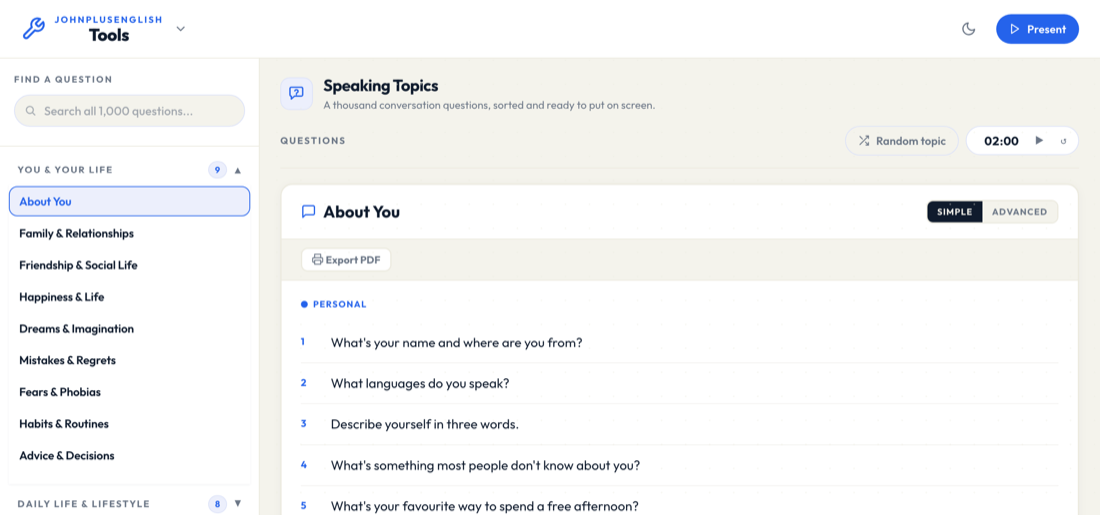
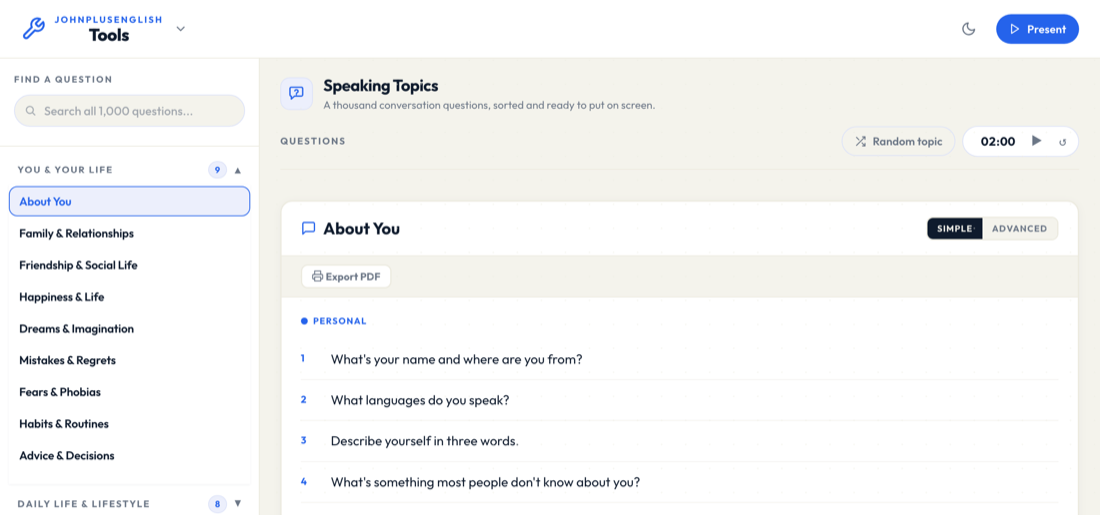
Speaking Topics timer: balance the buttons, restore the long bar
Two follow-ups on the new timer.

The play button kept a mouse-click focus ring, which made it look larger and the
reset ↺ small beside it. Dropped the ring for pointer focus (kept one for
keyboard), and sized both buttons the same at 28px with a 15px glyph, so play and
reset read as a pair.

The long progress bar was missing since the preset timer went. Added it back
under the toolbar, full width, the way the Debate Builder's works: it depletes as
the timer runs, turns amber under a minute and red past zero, and hides until the
timer is armed.

Verified: both buttons 28px, bar hidden before start, fills and depletes while
running, warns under a minute. No console errors, Debate Builder untouched.

diff --git a/tools/speaking-topics.html b/tools/speaking-topics.html
@@ -444,10 +444,26 @@ main{overflow:visible;min-width:0}
 .timer .tm:focus{background:var(--soft);color:var(--accent);border-radius:8px}
 .timer.warn .tm{color:#c2740c}
 .timer.over .tm{color:#c14343}
-.timer button{width:26px;height:26px;border-radius:999px;border:none;background:transparent;
+.timer button{width:28px;height:28px;border-radius:999px;border:none;background:transparent;
   color:var(--muted);display:inline-flex;align-items:center;justify-content:center;
-  font-size:12px;cursor:pointer}
+  font-size:15px;line-height:1;cursor:pointer;transition:background .12s,color .12s}
 .timer button:hover{background:var(--soft);color:var(--accent)}
+/* A mouse click left a big focus ring on play, so it dwarfed the reset. Drop it
+   for pointer focus; keep a ring for keyboard users. */
+.timer button:focus{outline:none}
+.timer button:focus-visible{outline:2px solid var(--accent);outline-offset:1px}
+
+/* The long progress bar under the toolbar, like the Debate Builder's: fills red
+   once time is up rather than vanishing to nothing. Hidden until the timer is
+   armed. */
+.jpt-tmbar{height:4px;border-radius:999px;background:var(--line);overflow:hidden;
+  margin:-4px 0 18px;opacity:0;transition:opacity .25s}
+.jpt-tmbar.on{opacity:1}
+.jpt-tmbar span{display:block;height:100%;width:100%;background:var(--accent);
+  border-radius:999px;transition:width .95s linear,background .3s}
+.jpt-tmbar.warn span{background:#c2740c}
+.jpt-tmbar.over span{background:#c14343;animation:jptTmPulse 1.1s ease-in-out infinite}
+@keyframes jptTmPulse{0%,100%{opacity:1}50%{opacity:.55}}
 
 /* Questions */
 .placeholder{background:var(--card);border:1px dashed var(--line);border-radius:16px;
@@ -571,6 +587,7 @@ main{overflow:visible;min-width:0}
 
         <div class="timer" id="jptTimerBox"><input class="tm" id="jptTmInput" type="text" inputmode="numeric" value="02:00" aria-label="Timer length" title="Type a length (2 or 2:30) and press Enter to start" onfocus="jptTmFocus()" onkeydown="jptTmKey(event)" onblur="jptTmApply()"><button onclick="jptTmToggle()" id="jptTmBtn" title="Start / pause">▶</button><button onclick="jptTmReset()" title="Reset">↺</button></div>
       </div>
+      <div class="jpt-tmbar" id="jptTmBar"><span id="jptTmBarFill"></span></div>
       <div class="placeholder" id="placeholder">Pick a topic from the list, or search for a question.</div>
       <div class="deck" id="deck"></div>
       <div class="deck-nav" id="deckNav" style="display:none">
@@ -1095,6 +1112,10 @@ buildTopicGrid();
     var txt=fmt(remaining);if(document.activeElement!==input)input.value=txt;
     var warn=remaining<=60&&remaining>0,over=remaining<=0;
     box().classList.toggle('warn',warn);box().classList.toggle('over',over);
+    var bar=document.getElementById('jptTmBar');
+    if(bar){bar.classList.toggle('on',running||remaining<total||over);
+      bar.classList.toggle('warn',warn);bar.classList.toggle('over',over);
+      document.getElementById('jptTmBarFill').style.width=(over?100:Math.max(0,Math.min(1,remaining/total))*100)+'%';}
     document.getElementById('jptTmBtn').textContent=running?'❙❙':'▶';}
   window.jptTmFocus=function(){if(running)window.jptTmToggle();var el=document.getElementById('jptTmInput');requestAnimationFrame(function(){el.select();});};
   window.jptTmApply=function(){var el=document.getElementById('jptTmInput');var v=parse(el.value);if(v===null){paint();return false;}total=v;remaining=v;paint();return true;};

diff --git a/build.py b/build.py
@@ -414,6 +414,10 @@ TIMER_JS = """<!-- jpt:timerjs -->
     var txt=fmt(remaining);if(document.activeElement!==input)input.value=txt;
     var warn=remaining<=60&&remaining>0,over=remaining<=0;
     box().classList.toggle('warn',warn);box().classList.toggle('over',over);
+    var bar=document.getElementById('jptTmBar');
+    if(bar){bar.classList.toggle('on',running||remaining<total||over);
+      bar.classList.toggle('warn',warn);bar.classList.toggle('over',over);
+      document.getElementById('jptTmBarFill').style.width=(over?100:Math.max(0,Math.min(1,remaining/total))*100)+'%';}
     document.getElementById('jptTmBtn').textContent=running?'\u2759\u2759':'\u25B6';}
   window.jptTmFocus=function(){if(running)window.jptTmToggle();var el=document.getElementById('jptTmInput');requestAnimationFrame(function(){el.select();});};
   window.jptTmApply=function(){var el=document.getElementById('jptTmInput');var v=parse(el.value);if(v===null){paint();return false;}total=v;remaining=v;paint();return true;};
@@ -617,10 +621,26 @@ main{overflow:visible;min-width:0}
 .timer .tm:focus{background:var(--soft);color:var(--accent);border-radius:8px}
 .timer.warn .tm{color:#c2740c}
 .timer.over .tm{color:#c14343}
-.timer button{width:26px;height:26px;border-radius:999px;border:none;background:transparent;
+.timer button{width:28px;height:28px;border-radius:999px;border:none;background:transparent;
   color:var(--muted);display:inline-flex;align-items:center;justify-content:center;
-  font-size:12px;cursor:pointer}
+  font-size:15px;line-height:1;cursor:pointer;transition:background .12s,color .12s}
 .timer button:hover{background:var(--soft);color:var(--accent)}
+/* A mouse click left a big focus ring on play, so it dwarfed the reset. Drop it
+   for pointer focus; keep a ring for keyboard users. */
+.timer button:focus{outline:none}
+.timer button:focus-visible{outline:2px solid var(--accent);outline-offset:1px}
+
+/* The long progress bar under the toolbar, like the Debate Builder's: fills red
+   once time is up rather than vanishing to nothing. Hidden until the timer is
+   armed. */
+.jpt-tmbar{height:4px;border-radius:999px;background:var(--line);overflow:hidden;
+  margin:-4px 0 18px;opacity:0;transition:opacity .25s}
+.jpt-tmbar.on{opacity:1}
+.jpt-tmbar span{display:block;height:100%;width:100%;background:var(--accent);
+  border-radius:999px;transition:width .95s linear,background .3s}
+.jpt-tmbar.warn span{background:#c2740c}
+.jpt-tmbar.over span{background:#c14343;animation:jptTmPulse 1.1s ease-in-out infinite}
+@keyframes jptTmPulse{0%,100%{opacity:1}50%{opacity:.55}}
 
 /* Questions */
 .placeholder{background:var(--card);border:1px dashed var(--line);border-radius:16px;
@@ -764,6 +784,7 @@ def build_speaking(html, t):
         {acts}
         {TIMER_HTML}
       </div>
+      <div class="jpt-tmbar" id="jptTmBar"><span id="jptTmBarFill"></span></div>
       {holder}
       {deck}
       {navrow}